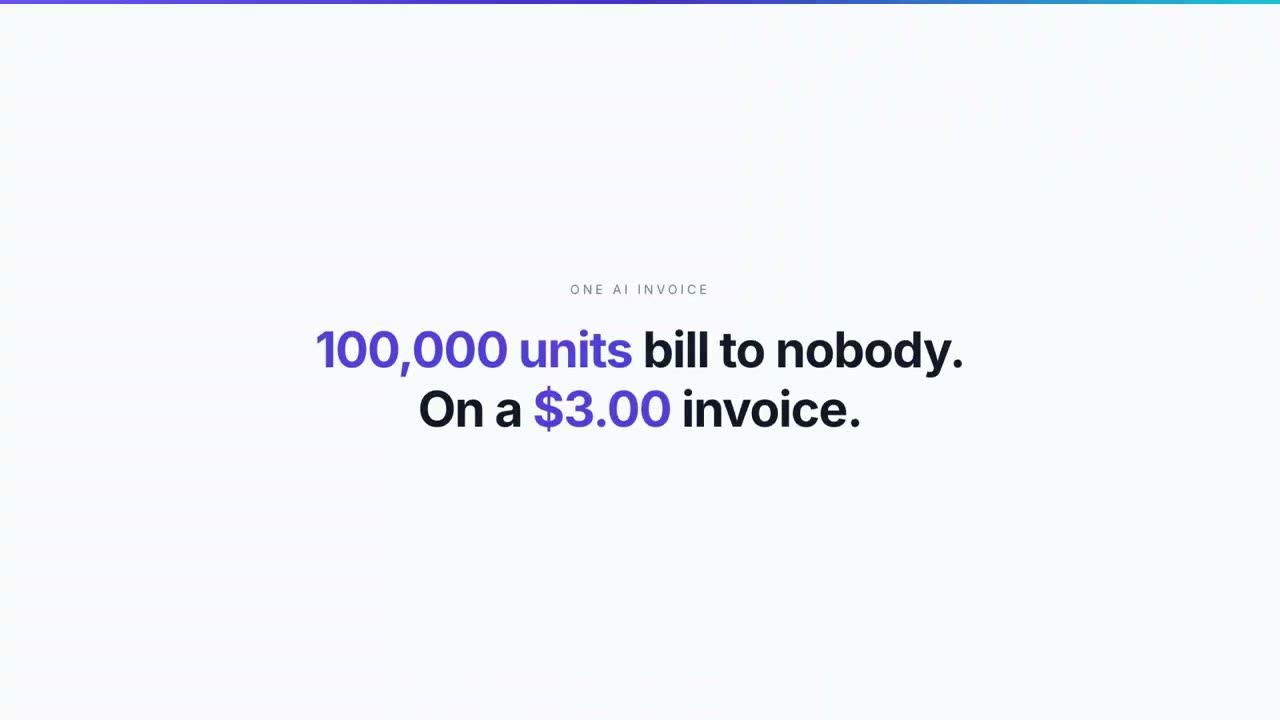
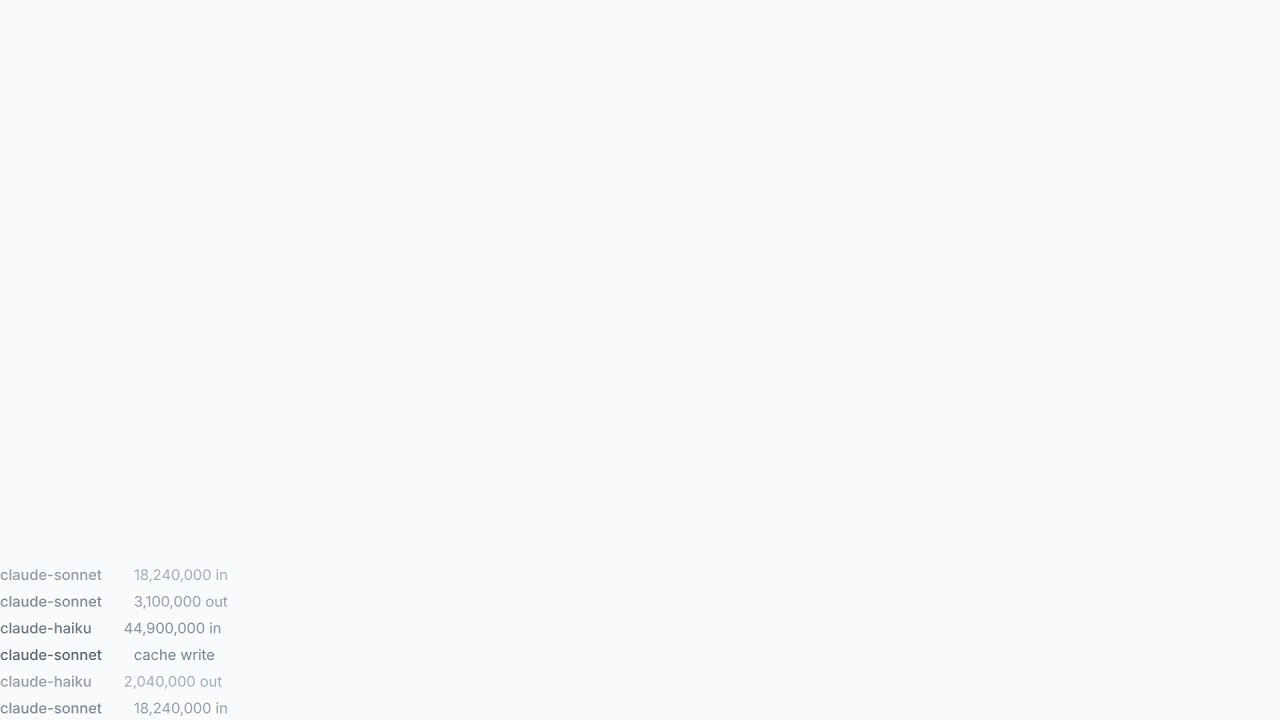
launch video: embed spendproof (f9xr2ILpUEg)
Uploaded f9xr2ILpUEg (23s, public) and embedded it: poster youtube maxresdefault, registry entry via scripts/launch-video/embed.mjs.

diff --git a/src/products/launch-videos.test.ts b/src/products/launch-videos.test.ts
@@ -53,7 +53,7 @@ describe("LAUNCH_VIDEOS", () => {
 
 describe("launchVideoFor", () => {
   it("finds a published product", () => {
-    expect(launchVideoFor("spendproof")?.youtubeId).toBe("qeow4cdaiv8");
+    expect(launchVideoFor("spendproof")?.youtubeId).toBe("f9xr2ILpUEg");
   });
 
   it("returns undefined for a product with no video, and for a slug that is not a product", () => {
@@ -67,11 +67,11 @@ describe("launchVideoFor", () => {
 describe("embed URLs", () => {
   it("uses the privacy-enhanced host, so no cookie is set before play", () => {
     const video = LAUNCH_VIDEOS[0];
-    expect(launchVideoEmbedUrl(video)).toBe("https://www.youtube-nocookie.com/embed/qeow4cdaiv8");
+    expect(launchVideoEmbedUrl(video)).toBe("https://www.youtube-nocookie.com/embed/f9xr2ILpUEg");
     expect(launchVideoEmbedUrl(video)).not.toContain("youtube.com/embed");
   });
 
   it("builds a short watch URL", () => {
-    expect(launchVideoWatchUrl(LAUNCH_VIDEOS[0])).toBe("https://youtu.be/qeow4cdaiv8");
+    expect(launchVideoWatchUrl(LAUNCH_VIDEOS[0])).toBe("https://youtu.be/f9xr2ILpUEg");
   });
 });

diff --git a/src/products/launch-videos.ts b/src/products/launch-videos.ts
@@ -52,11 +52,11 @@ export interface LaunchVideo {
 export const LAUNCH_VIDEOS: readonly LaunchVideo[] = [
   {
     slug: "spendproof",
-    youtubeId: "qeow4cdaiv8",
+    youtubeId: "f9xr2ILpUEg",
     posterPath: "/launch-videos/spendproof.jpg",
     title: "Introducing SpendProof: AI provider invoice ↔ tagged-usage reconciliation.",
     durationSeconds: 23,
-    publishedAt: "2026-10-14",
+    publishedAt: "2026-10-24",
   },
   {
     slug: "ledgerlink",
